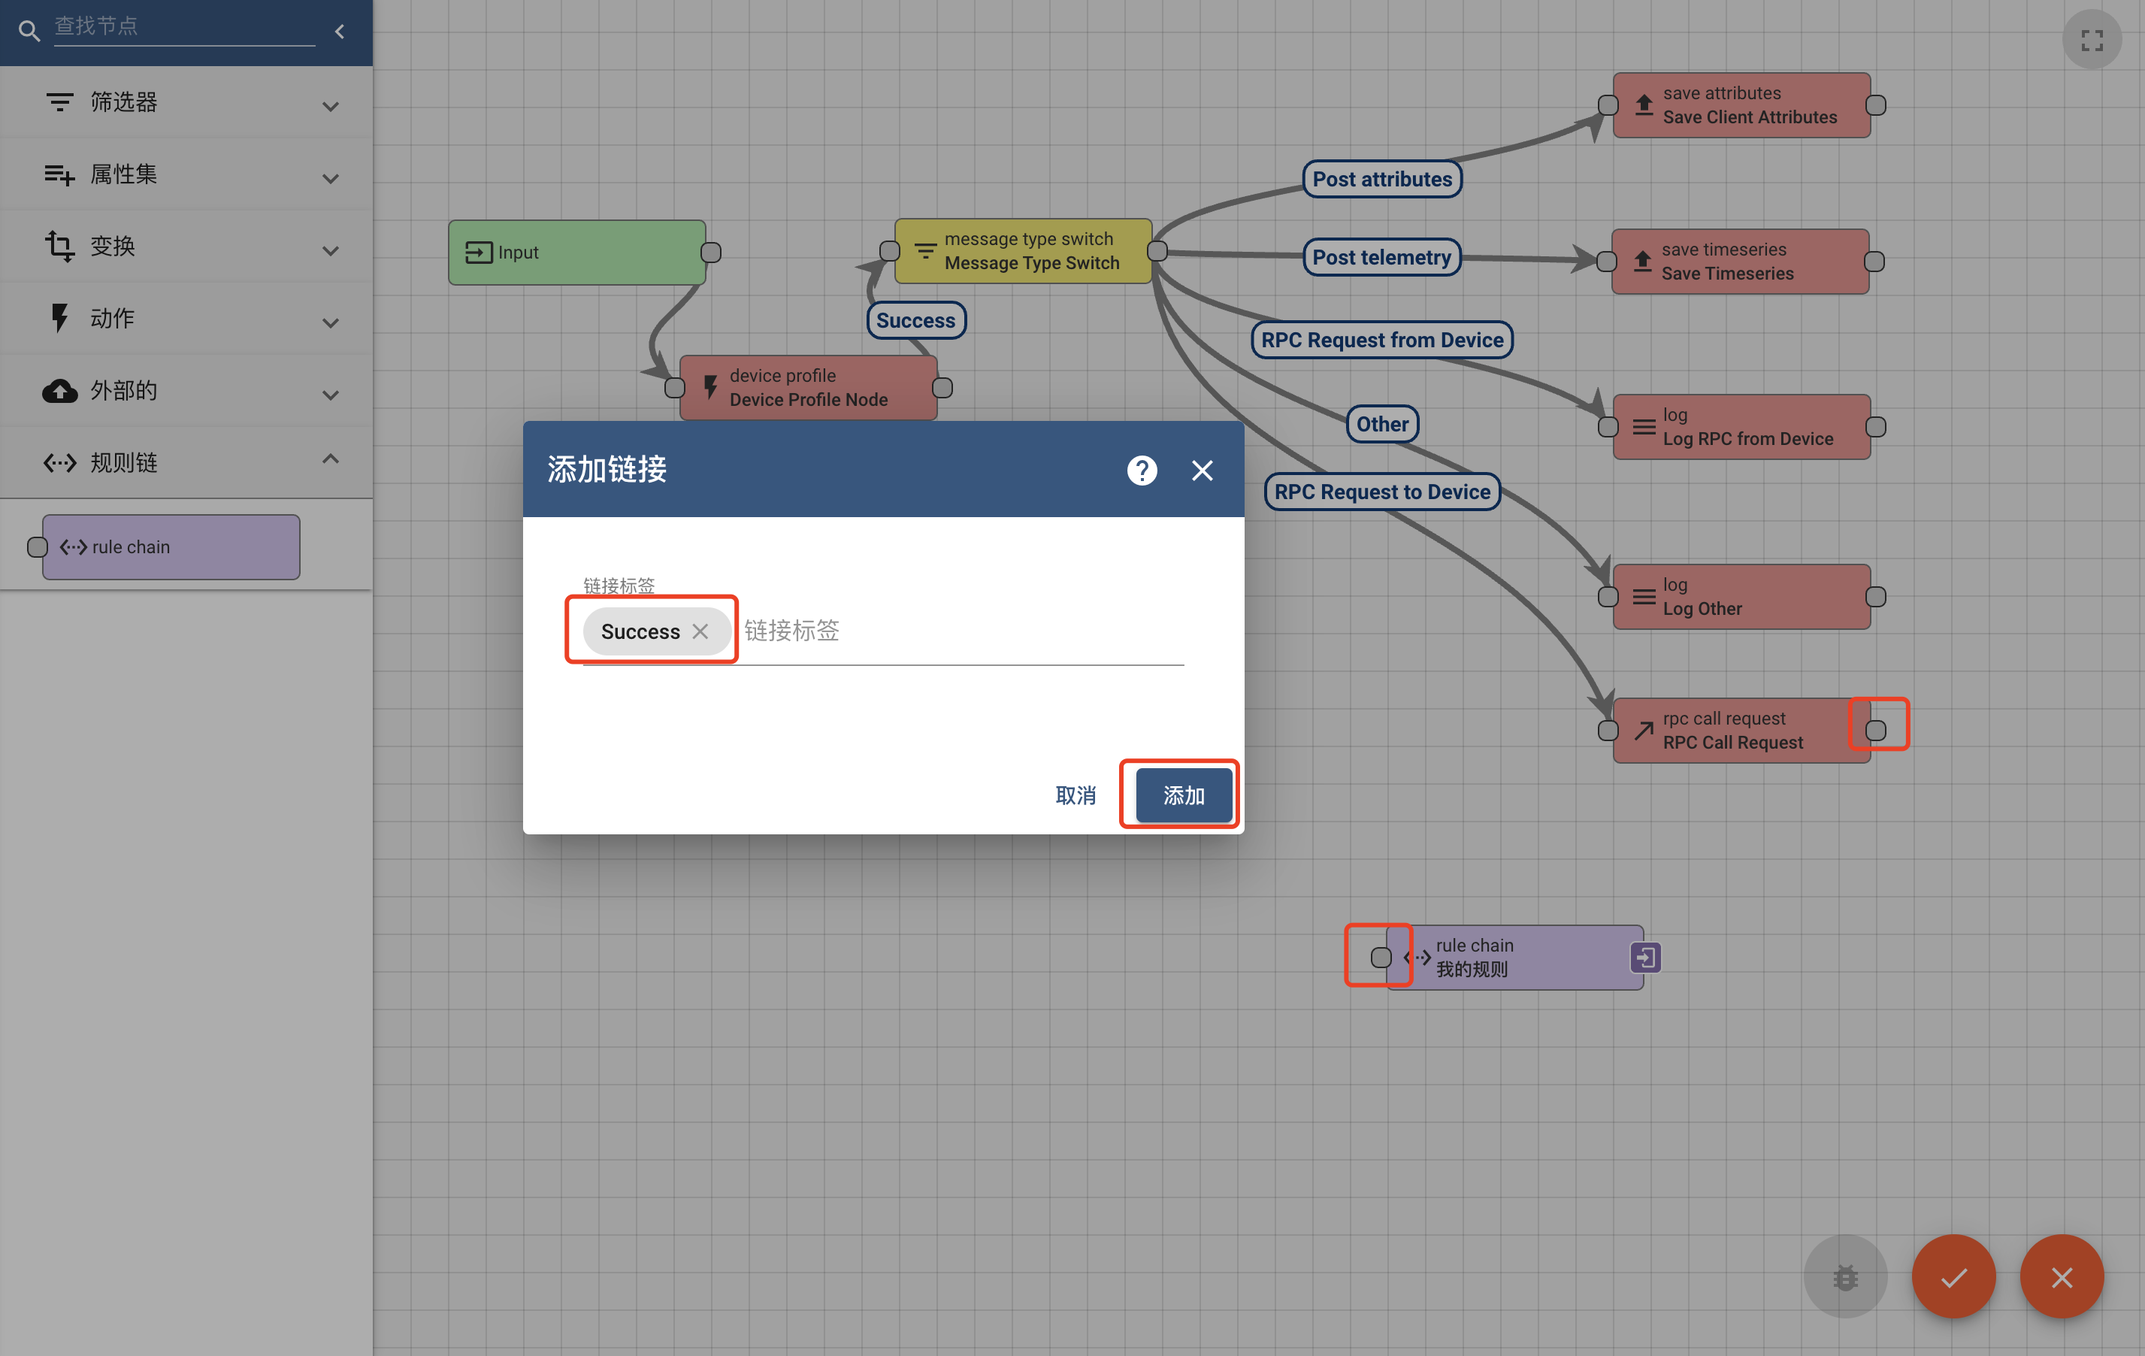
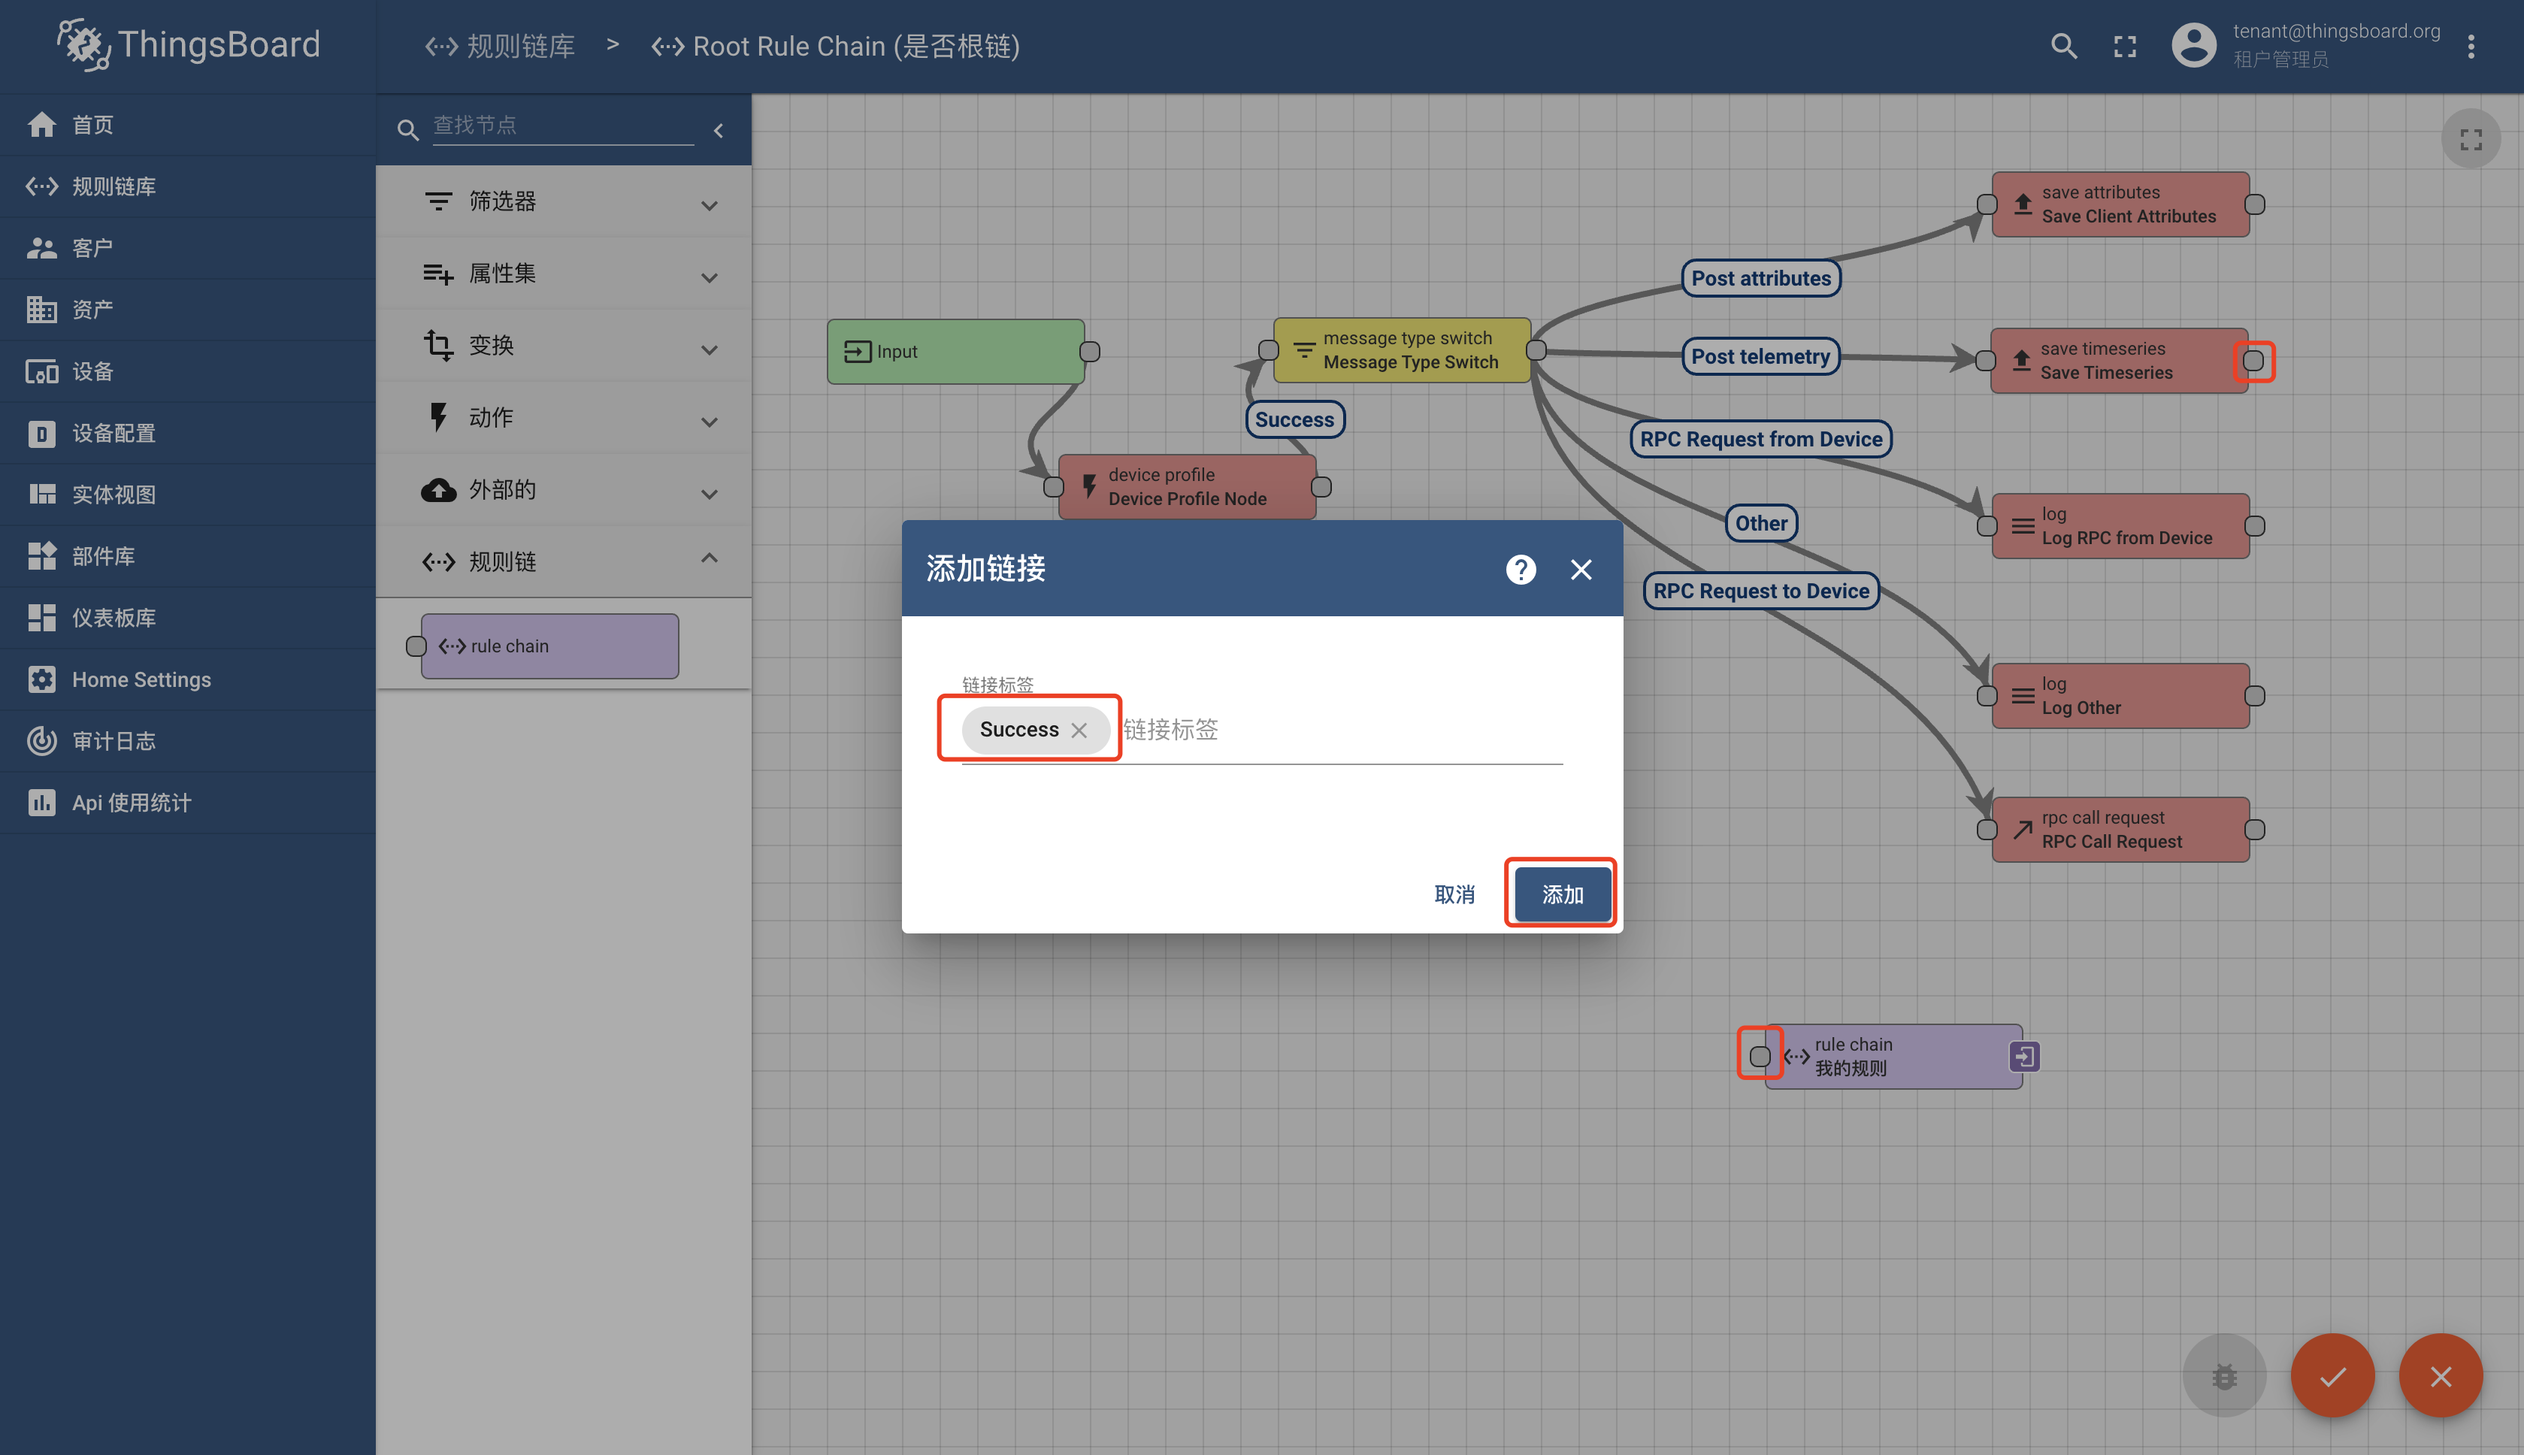
update rule-engine md

diff --git a/doc/规则引擎.md b/doc/规则引擎.md
@@ -2,9 +2,8 @@
 
 - 已经编译且能成功运行的代码环境，可参考前作。
 - IDE Idea或Eclipse，本文使用Idea
+- [MqttBox](http://workswithweb.com/mqttbox.html)，一个Mqtt客户端
 - 支持Html5的浏览器，本文使用Chrome
-
-
 
 #### 根规则链
 
@@ -33,7 +32,7 @@
 
 ##### 节点修改
 
-双击面板中的节点`消息计数`（或单击节点，然后在节点右上角，点击笔形按钮）在右侧弹出页中可以进行修改，点击`勾`进行保存
+双击面板中的节点`消息计数`（或单击节点，然后在节点右上角，点击笔形按钮）在右侧弹出页中进行修改`Inteval in seconds`值为`5`(5秒统计一次)，点击`勾`进行保存
 ![消息计数节点修改](../image/消息计数节点修改.png)
 节点修改后，必须点击右下角`勾`进行规则链的保存
 
@@ -45,13 +44,30 @@
 
 #### 规则链链接
 
-规则链与规则链通过链接，可以将一条链的处理结果传输到另一条链继续处理，点击规则链`RootRoot Rule Chain`,
+规则链与规则链通过链接，可以将一条链的处理结果传输到另一条链继续处理，点击规则链`RootRoot Rule Chain`并打开规则链
+![根规则链打开](../image/根规则链打开.png)
+在左侧节点列表中找到节点`规则链`，拖拽到右侧面板，选择规则链`我的规则`，点击`添加`按钮
+![规则链节点添加](../image/规则链节点添加.png)
+连接时序节点与规则链节点，选择链接标签`Success`（表明时序保存成功后，进入规则链`我的规则`）
+![规则链节点连接](../image/规则链节点连接.png)
+点击右下角`勾`进行规则链的保存
 
 #### 规则链调试
+规则链可以打开规则节点的调试开关用于调试规则，以规则链`我的规则`为例，打开规则链`我的规则`，双击节点`消息计数`，点击`调试模式`单选框，点击右上角`勾`进行保存。
+![消息计数节点调试](../image/消息计数节点调试.png)
+点击右下角`勾`进行规则链的保存
+
+参考前作[普通设备](普通设备.md)创建设备`我的设备`，使用MqttBox发送数据`{"temp":40.21}`
+![温度数据上传](../image/温度数据上传.png)
+再次打开规则链`我的规则`，双击节点`消息计数`，切换到`事件`tab页
+![消息计数节点调试详情](../image/消息计数节点调试详情.png)
+点击列表中的条目，可以查看具体输出（IN）和输出（OUT）信息，点击最新的类型为`OUT`的一行数据，可以查看输出的具体信息，笔者在MqttBox中点击了**3**次，那么经过**5**秒后，返回的计数结果为**3**
+![消息计数节点调试详情OUT](../image/消息计数节点调试详情OUT.png)
 
 
 #### TIPS
-- 通常物联网平台都会具有规则引擎，规则引擎用途是进行实时数据的实时处理。
+- 通常物联网平台都会具有规则引擎，规则引擎用途是进行实时数据的流式处理
+- 规则链调试完成后，切记关闭调试，否则会对数据库造成一定压力
 
 
 
